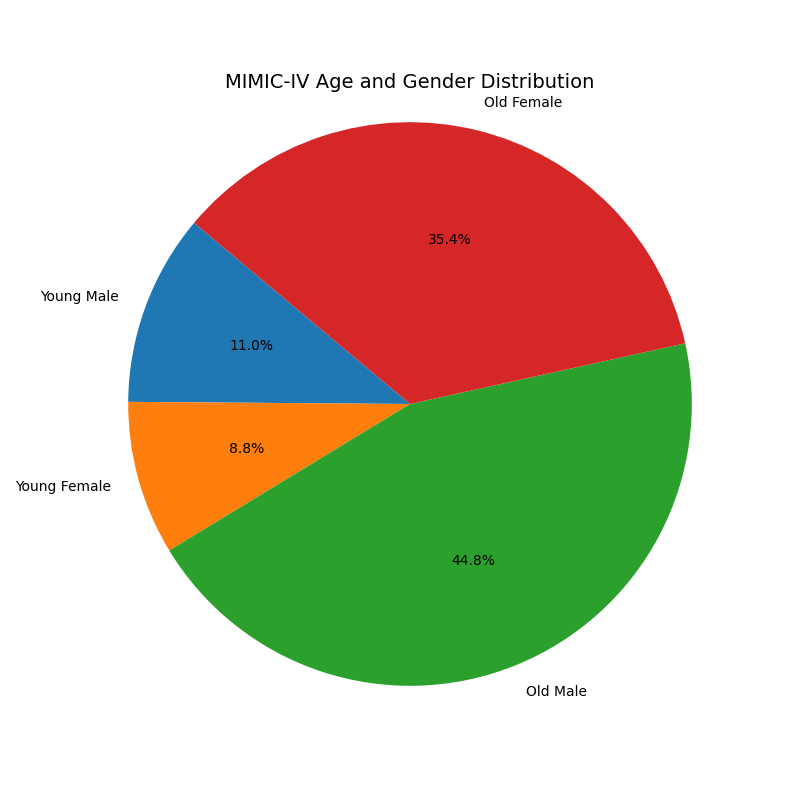
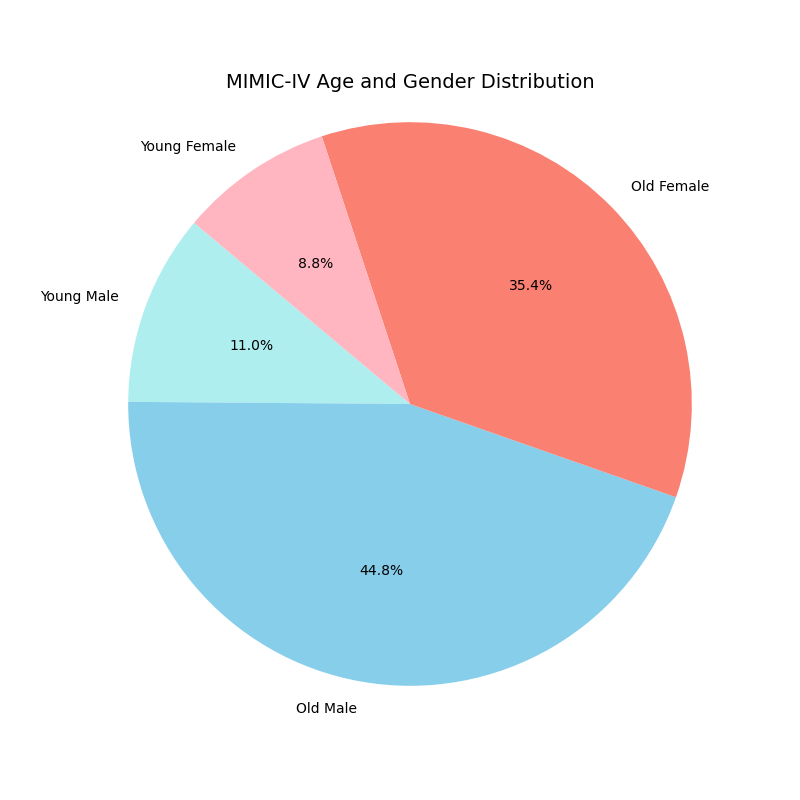
change color for the pie chart

diff --git a/data_analysis/tmu_pie.py b/data_analysis/tmu_pie.py
@@ -15,8 +15,8 @@ old_female = df[(df['age'] >= 50) & (df['gender'] == 0)].shape[0]
 # Result summary
 result = {
     'Young Male': young_male,
-    'Young Female': young_female,
     'Old Male': old_male,
+    'Young Female': young_female,
     'Old Female': old_female
 }
 
@@ -25,7 +25,7 @@ print(result)
 # Create pie chart
 labels = result.keys()
 sizes = result.values()
-colors = ['#1f77b4', '#ff7f0e', '#2ca02c', '#d62728']  # Colors for each slice
+colors = ['paleturquoise', 'skyblue', 'salmon',  'lightpink']  # Colors for each slice
 explode = (0, 0, 0, 0)  # Highlight the first slice (Young Male)
 
 plt.figure(figsize=(8, 8))
@@ -33,11 +33,10 @@ plt.pie(sizes, labels=labels, autopct='%1.1f%%', startangle=140, colors=colors, 
 plt.axis('equal')  # Equal aspect ratio ensures that pie chart is circular.
 plt.title('TMU Age and Gender Distribution', fontsize=14)
 plt.savefig('figure/tmu_pie_1.png')
-plt.show()
 
 # Categorize age and gender
-df['age_category'] = df['age'].apply(lambda x: 'young' if x < 50 else 'old')
-df['gender_category'] = df['gender'].apply(lambda x: 'male' if x == 1 else 'female')
+df['age_category'] = df['age'].apply(lambda x: 'Young' if x < 50 else 'Old')
+df['gender_category'] = df['gender'].apply(lambda x: 'Male' if x == 1 else 'Female')
 
 # Group by age, gender categories, and mortality
 counts = df.groupby(['age_category', 'gender_category', 'mortality']).size().reset_index(name='counts')
@@ -54,13 +53,13 @@ pivot_counts.columns = ['age_category', 'gender_category', 'Survived', 'Died']
 
 # Create pie charts
 fig, axs = plt.subplots(1, 2, figsize=(12, 6))
-
+colors = ['salmon', 'skyblue', 'lightpink', 'paleturquoise']  # Colors for each slice
 # Pie chart for survivors
 axs[0].pie(pivot_counts['Survived'], 
            labels=[f"{row['age_category']} {row['gender_category']}" for _, row in pivot_counts.iterrows()], 
            autopct='%1.1f%%', 
            startangle=90, 
-           colors=['#1f77b4', '#ff7f0e', '#2ca02c', '#d62728'])
+           colors=colors)
 axs[0].axis('equal')  # Equal aspect ratio ensures that pie chart is circular.
 axs[0].set_title('Survived (0) Distribution', fontsize=14)
 
@@ -69,12 +68,11 @@ axs[1].pie(pivot_counts['Died'],
            labels=[f"{row['age_category']} {row['gender_category']}" for _, row in pivot_counts.iterrows()], 
            autopct='%1.1f%%', 
            startangle=90, 
-           colors=['#1f77b4', '#ff7f0e', '#2ca02c', '#d62728'])
+           colors=colors)
 axs[1].axis('equal')  # Equal aspect ratio ensures that pie chart is circular.
 axs[1].set_title('Died (1) Distribution', fontsize=14)
 
 # Show the pie charts
 plt.tight_layout()
 
-plt.savefig('figure/mimic_pie_2.png')
-plt.show()
+plt.savefig('figure/tmu_pie_2.png')

diff --git a/data_analysis/mimic_pie.py b/data_analysis/mimic_pie.py
@@ -15,9 +15,9 @@ old_female = df[(df['anchor_age'] >= 50) & (df['gender'] == 'F')].shape[0]
 # Result summary
 result = {
     'Young Male': young_male,
-    'Young Female': young_female,
     'Old Male': old_male,
-    'Old Female': old_female
+    'Old Female': old_female,
+    'Young Female': young_female
 }
 
 print(result)
@@ -25,7 +25,7 @@ print(result)
 # Create pie chart
 labels = result.keys()
 sizes = result.values()
-colors = ['#1f77b4', '#ff7f0e', '#2ca02c', '#d62728']  # Colors for each slice
+colors = ['paleturquoise', 'skyblue', 'salmon',  'lightpink']  # Colors for each slice
 explode = (0, 0, 0, 0)  # Highlight the first slice (Young Male)
 
 plt.figure(figsize=(8, 8))
@@ -36,8 +36,8 @@ plt.savefig('figure/mimic_pie_1.png')
 plt.show()
 
 # Categorize age and gender
-df['age_category'] = df['anchor_age'].apply(lambda x: 'young' if x < 50 else 'old')
-df['gender_category'] = df['gender'].apply(lambda x: 'male' if x == 'M' else 'female')
+df['age_category'] = df['anchor_age'].apply(lambda x: 'Young' if x < 50 else 'Old')
+df['gender_category'] = df['gender'].apply(lambda x: 'Male' if x == 'M' else 'Female')
 
 # Group by age, gender categories, and mortality
 counts = df.groupby(['age_category', 'gender_category', 'mortality']).size().reset_index(name='counts')
@@ -54,13 +54,14 @@ pivot_counts.columns = ['age_category', 'gender_category', 'Survived', 'Died']
 
 # Create pie charts
 fig, axs = plt.subplots(1, 2, figsize=(12, 6))
+colors = ['salmon', 'skyblue', 'lightpink', 'paleturquoise']  # Colors for each slice
 
 # Pie chart for survivors
 axs[0].pie(pivot_counts['Survived'], 
            labels=[f"{row['age_category']} {row['gender_category']}" for _, row in pivot_counts.iterrows()], 
            autopct='%1.1f%%', 
            startangle=90, 
-           colors=['#1f77b4', '#ff7f0e', '#2ca02c', '#d62728'])
+           colors=colors)
 axs[0].axis('equal')  # Equal aspect ratio ensures that pie chart is circular.
 axs[0].set_title('Survived (0) Distribution', fontsize=14)
 
@@ -69,7 +70,7 @@ axs[1].pie(pivot_counts['Died'],
            labels=[f"{row['age_category']} {row['gender_category']}" for _, row in pivot_counts.iterrows()], 
            autopct='%1.1f%%', 
            startangle=90, 
-           colors=['#1f77b4', '#ff7f0e', '#2ca02c', '#d62728'])
+           colors=colors)
 axs[1].axis('equal')  # Equal aspect ratio ensures that pie chart is circular.
 axs[1].set_title('Died (1) Distribution', fontsize=14)
 

diff --git a/data_analysis/mimic_bar.py b/data_analysis/mimic_bar.py
@@ -5,8 +5,8 @@ import matplotlib.pyplot as plt
 df = pd.read_csv('mimic_data.csv') 
 
 # Categorize age and gender
-df['age_category'] = df['anchor_age'].apply(lambda x: 'young' if x < 50 else 'old')
-df['gender_category'] = df['gender'].apply(lambda x: 'male' if x == 'M' else 'female')
+df['age_category'] = df['anchor_age'].apply(lambda x: 'Young' if x < 50 else 'Old')
+df['gender_category'] = df['gender'].apply(lambda x: 'Male' if x == 'M' else 'Female')
 
 # Group by age, gender categories, and mortality
 counts = df.groupby(['age_category', 'gender_category', 'mortality']).size().reset_index(name='counts')

diff --git a/data_analysis/tmu_bar.py b/data_analysis/tmu_bar.py
@@ -5,8 +5,8 @@ import matplotlib.pyplot as plt
 df = pd.read_csv('TMU.csv') 
 
 # Categorize age and gender
-df['age_category'] = df['age'].apply(lambda x: 'young' if x < 50 else 'old')
-df['gender_category'] = df['gender'].apply(lambda x: 'male' if x == 1 else 'female')
+df['age_category'] = df['age'].apply(lambda x: 'Young' if x < 50 else 'Old')
+df['gender_category'] = df['gender'].apply(lambda x: 'Male' if x == 1 else 'Female')
 
 # Group by age, gender categories, and mortality
 counts = df.groupby(['age_category', 'gender_category', 'mortality']).size().reset_index(name='counts')
